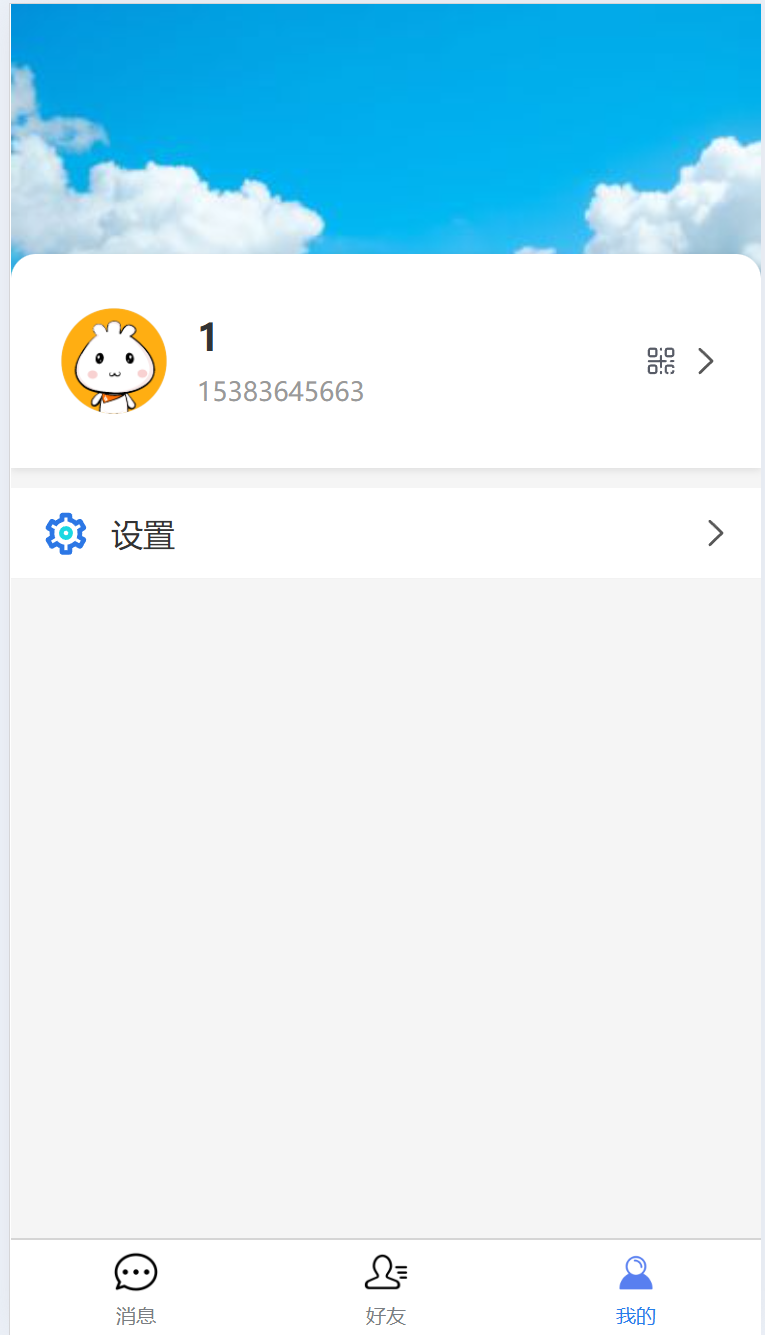
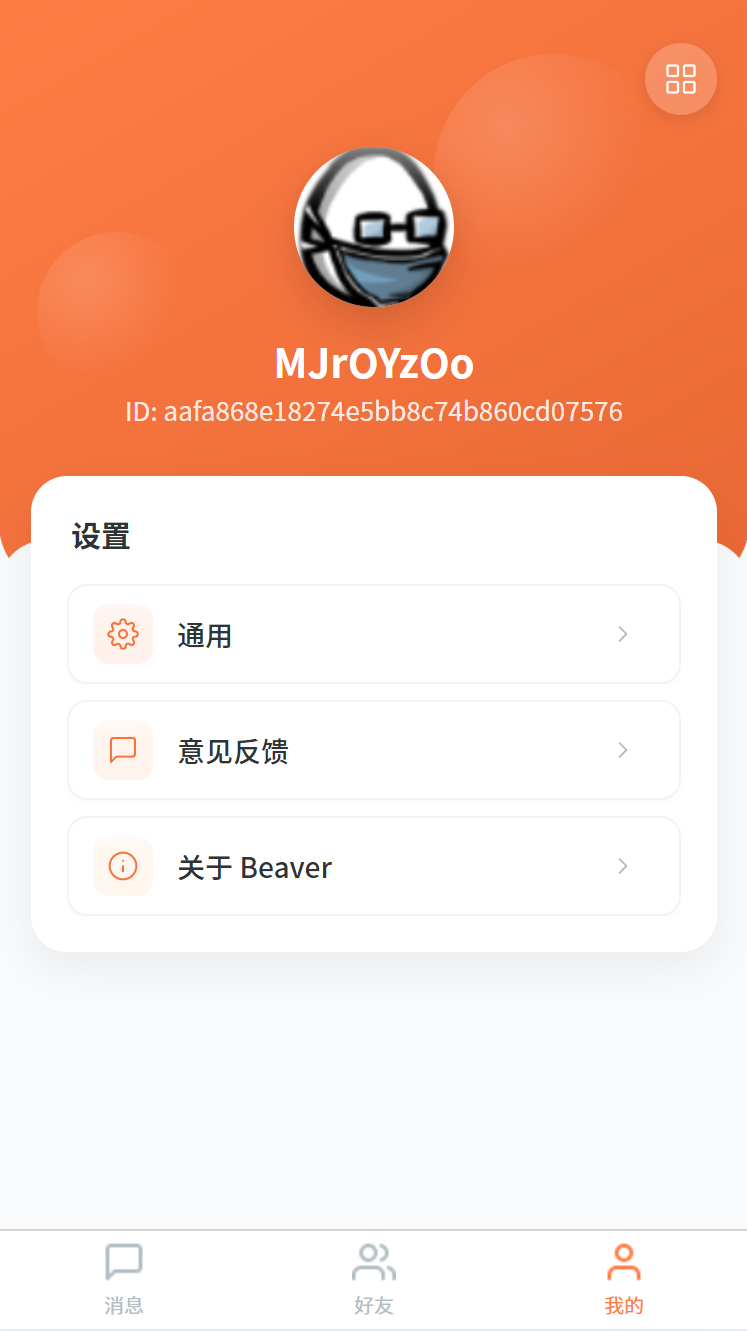
[feat]修改默认头像

diff --git a/README.md b/README.md
@@ -62,17 +62,32 @@ npm run build_test
 <img src="./static/friend.png"/>
 
 消息页面
-<img src="./static/message.png"/>
+<img src="./static/home.png"/>
 
 聊天页面
 <img src="./static/chat.png"/>
 
-聊天页面
-<img src="./static/chat1.png"/>
+群聊页面
+<img src="./static/groupChat.png"/>
+
+群聊详情
+<img src="./static/groupConfig.png"/>
+
+群聊移除界面
+<img src="./static/removeMember.png"/>
 
 详情页面
 <img src="./static/info.png"/>
 
+设置页面
+<img src="./static/setting.png"/>
+
+
+关于页面
+<img src="./static/about.png"/>
+
+问题反馈
+<img src="./static/feedback.png"/>
 
 
 
